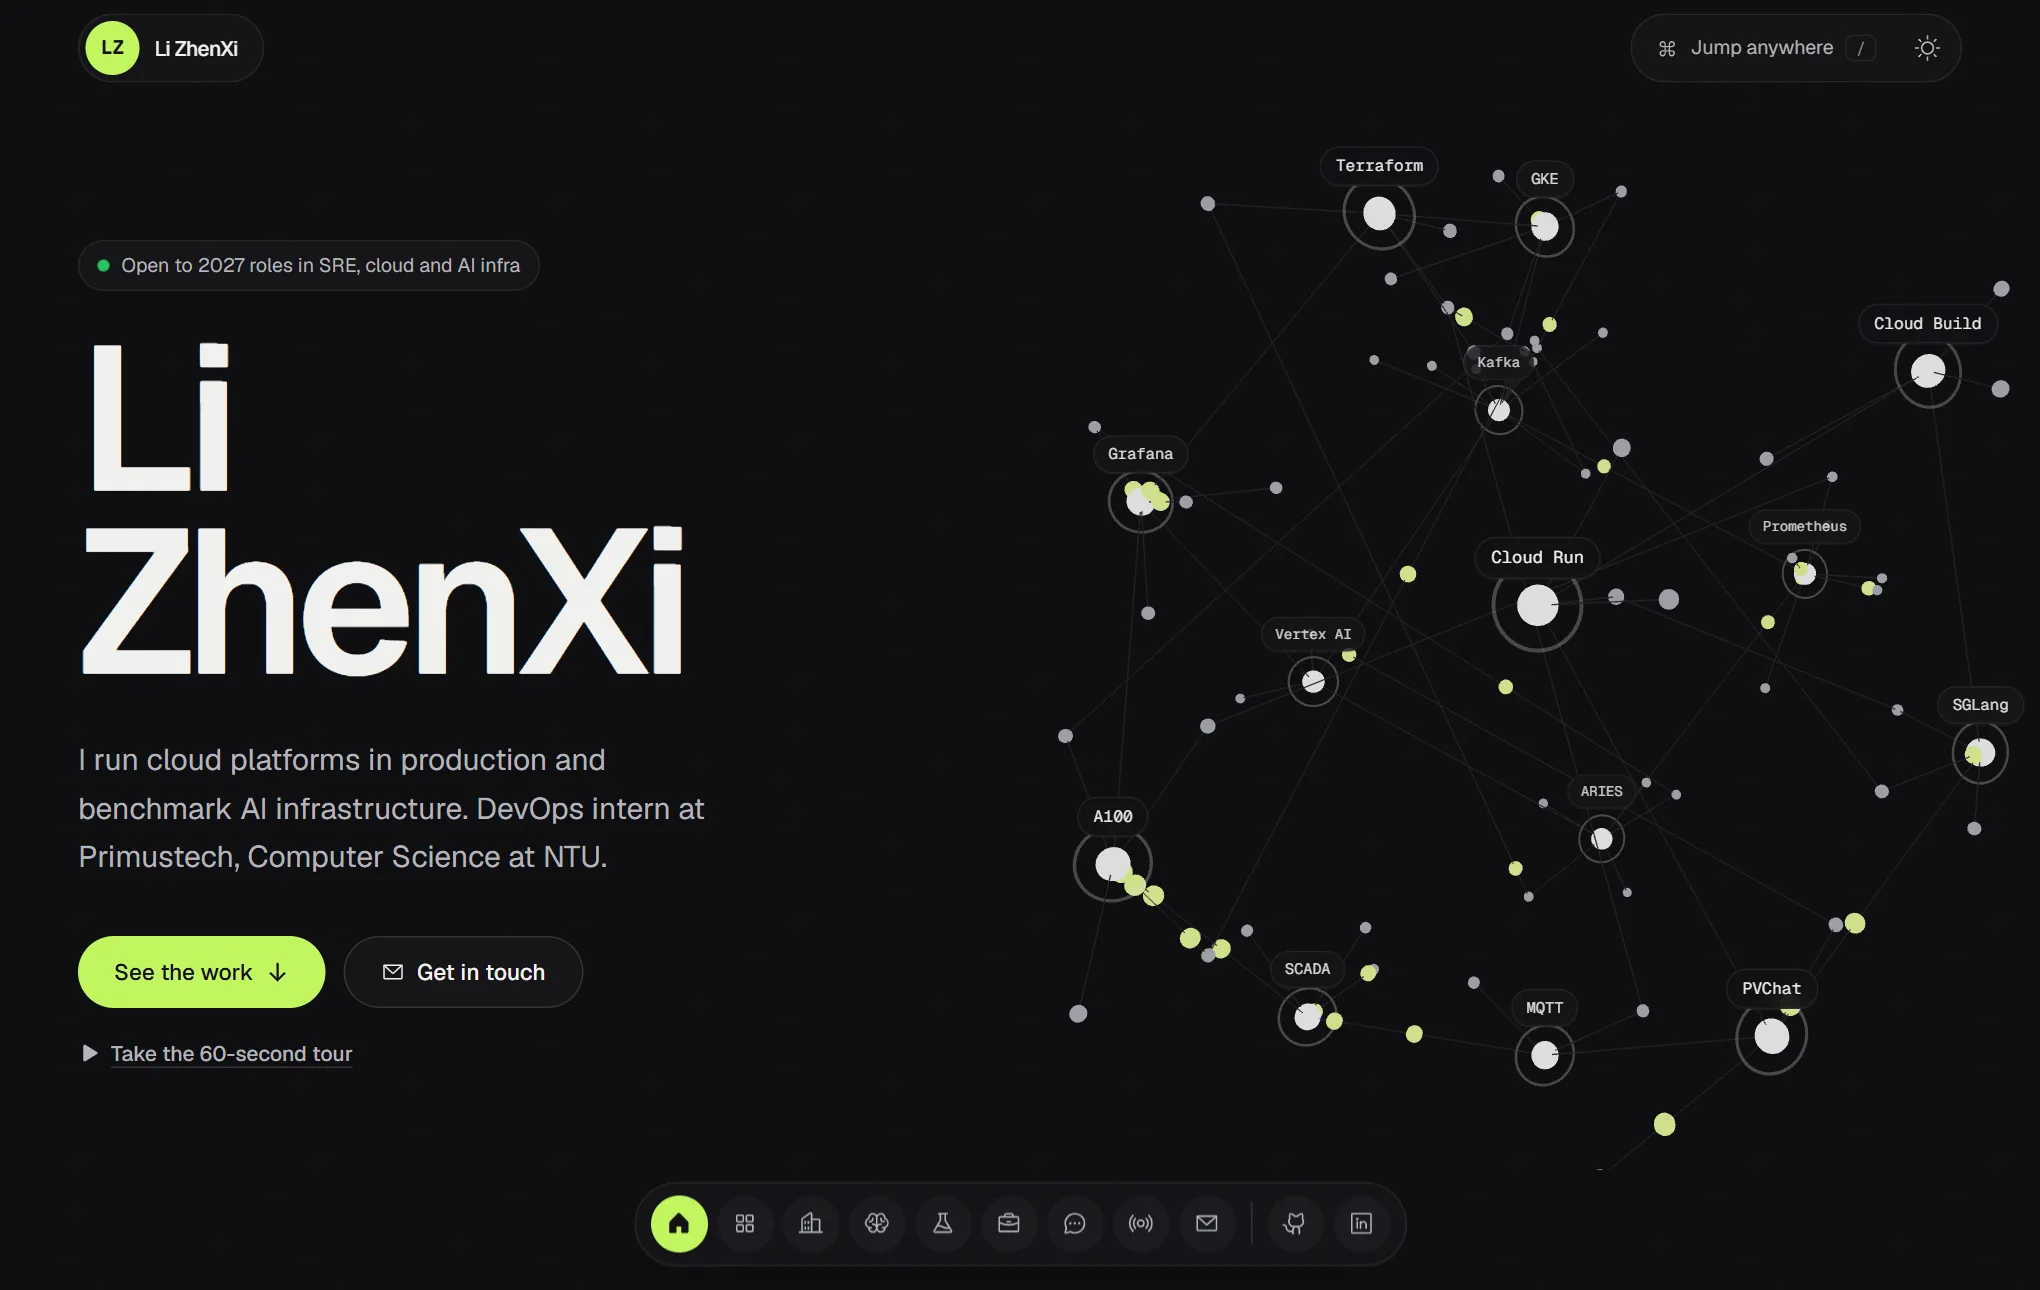
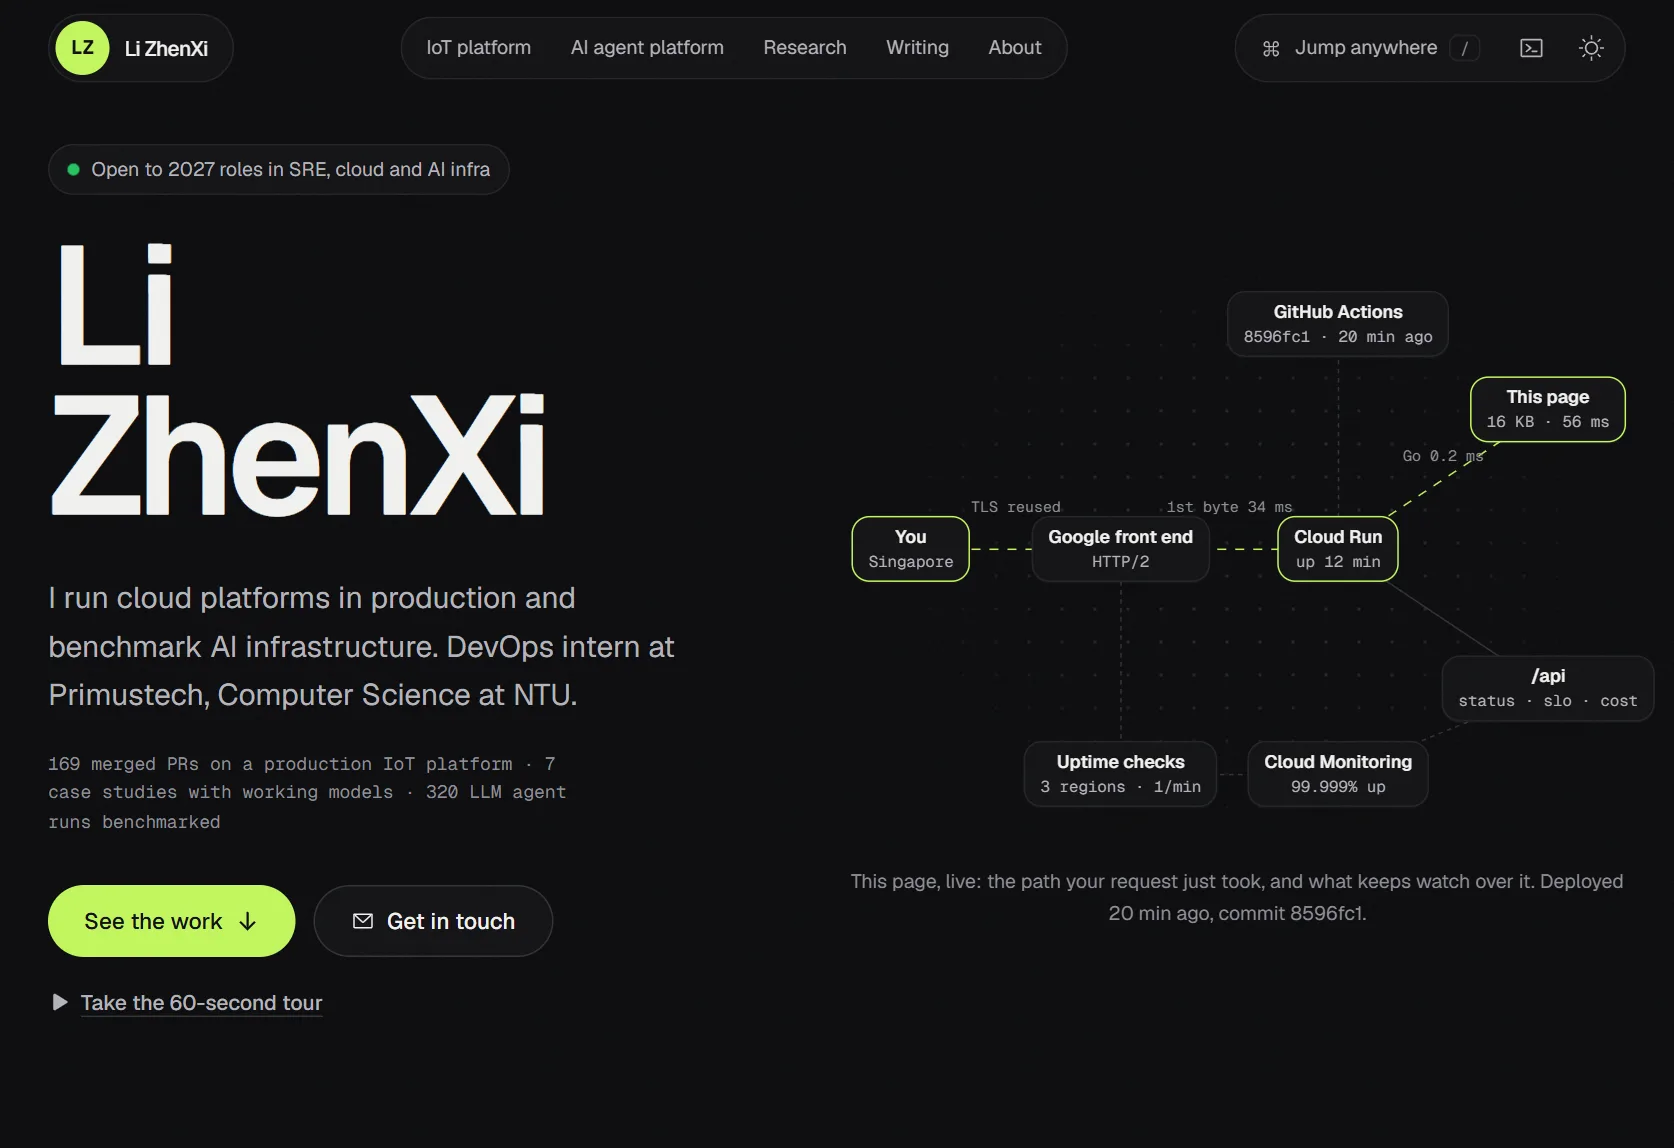
README: the live-map hero, /break, /cost, the capacity lab and the drill
- A new hero screenshot (the live map of the request that loaded the
  page) and two new gallery rows: break it yourself and what it costs.
- Three things to try against the live server, and an Open in GitHub
  Codespaces badge for the break-fix drill on the drill/01 branch.
- The architecture sketch and the back-end row list /api/cost and
  /api/lab/echo; the front-end row describes the new hero (the 3D one is
  kept on /v1), the new pages and the terminal's cost command; there are
  eleven decision records, not ten.

diff --git a/README.md b/README.md
@@ -10,7 +10,7 @@ back end, the pipeline and the monitoring are the work.
 [![Uptime from Google Cloud uptime checks](https://img.shields.io/endpoint?url=https%3A%2F%2Fportfolio-emsghin2iq-as.a.run.app%2Fapi%2Fbadge%2Fuptime)](https://portfolio-emsghin2iq-as.a.run.app/status)
 [![OpenSSF Scorecard](https://api.scorecard.dev/projects/github.com/zhenxi0901/portfolio/badge)](https://scorecard.dev/viewer/?uri=github.com/zhenxi0901/portfolio)
 
-![The hero: a 3D service mesh of the tools I work with](docs/screenshots/hero.webp)
+![The hero: a live map of the request that loaded the page, and what keeps watch over it](docs/screenshots/hero.webp)
 
 ## What you will find on it
 
@@ -20,6 +20,16 @@ benchmarks**, my final-year project at NTU (`/research`). The home page is short
 what I am doing now, a card per chapter, and the ways into the site's own operations. Writing and
 postmortems are at `/writing`, experience and the Ask console at `/about`, and the one-page version the
 site used to be is kept at `/v1` ([ADR 11](docs/adr/0011-chapters-not-one-page.md)).
+
+Three things to try against the live server: **break it yourself** (`/break`), which injects delays and 503s into your own
+requests and lets four client strategies cope with them; **what it costs** (`/cost`), this month's bill from the service's own
+meters at Google's list prices; and a **capacity lab** (`/research#capacity`) that sizes a GPU for long-running agents from my
+FYP's numbers. Or debug this server yourself:
+
+[![Open in GitHub Codespaces](https://github.com/codespaces/badge.svg)](https://codespaces.new/zhenxi0901/portfolio?ref=drill/01&quickstart=1)
+
+That opens the [break-fix drill](https://github.com/zhenxi0901/portfolio/tree/drill/01/drills/01) on the `drill/01` branch: this Go
+server with one bug planted in it, real traffic, and a check that grades the fix (`make drill`, find it, `make check`).
 
 | | |
 |---|---|
@@ -31,12 +41,14 @@ site used to be is kept at `/v1` ([ADR 11](docs/adr/0011-chapters-not-one-page.m
 | **A page per case study** (`/work/<case>`): the numbers, the same working model, the full write-up, and links into the deeper sections. | **Postmortems** (`/postmortems/<slug>`): blameless write-ups of what went wrong running this site, with times and counts from the commits, the CI history and Cloud Run's request logs. |
 | [![The on-call drill, paged and investigating](docs/screenshots/oncall-drill.webp)](https://portfolio-emsghin2iq-as.a.run.app/oncall) | [![DORA metrics for this site, from its own deploy history](docs/screenshots/delivery.webp)](https://portfolio-emsghin2iq-as.a.run.app/status) |
 | **Go on call** (`/oncall`): two simulated pages, stale telemetry on the IoT platform or slow answers on the AI agent platform. Every look and action costs minutes while the error budget burns, and you get a postmortem of your own response; the site's terminal runs them as text too (`oncall`). | **How this site ships**: DORA's four keys for this repository, computed by the pipeline from its own commits and deploy runs and baked into the image it deploys. |
+| [![Break it yourself: a retry run against 30% errors, every attempt on a timeline](docs/screenshots/break.webp)](https://portfolio-emsghin2iq-as.a.run.app/break) | [![What it costs: the month's receipt and where the money goes](docs/screenshots/cost.webp)](https://portfolio-emsghin2iq-as.a.run.app/cost) |
+| **Break it yourself** (`/break`): delays and 503s injected into your own requests on the live server, and four clients against them: give up, retry with jittered backoff, a circuit breaker, hedging. | **What it costs** (`/cost`): the month so far as a receipt, from the service's own meters at list prices, with where the money goes, a what-if for a busy day, and what caps the bill. |
 | [![A console on the site calling its own MCP server](docs/screenshots/agents.webp)](https://portfolio-emsghin2iq-as.a.run.app/agents) | [![The site's claims, sorted by how they can be checked](docs/screenshots/evidence.webp)](https://portfolio-emsghin2iq-as.a.run.app/evidence) |
 | **Ask it with your own agent** (`/agents`): the site is an MCP server. Add one URL to Claude, Cursor or any MCP client, or call the tools from the console on the page. `curl` on the home page gets a text card. | **Evidence** (`/evidence`): every headline claim, sorted by whether you can check it live, on public record, or not at all because the work is private. |
 
 ```
 Browser ──> Cloud Run: one Go binary ──> Next.js static export  (/, /_next/*, /work/*, /oncall, ...)
-                                    ├──> JSON API               (/api/status, /api/slo, /api/ask, /api/contact, /api/badge/uptime, /api/card.svg)
+                                    ├──> JSON API               (/api/status, /api/slo, /api/cost, /api/ask, /api/lab/echo, /api/contact, /api/badge/uptime, /api/card.svg)
                                     ├──> MCP server             (/mcp: five read-only tools for AI agents)
                                     ├──> plain text             (/llms.txt, /md/*.md; a text card when the home page is asked for with curl)
                                     ├──> OpenTelemetry spans    (/api/ask) ──> Cloud Trace
@@ -53,8 +65,8 @@ Terraform ──> Cloud Run, Artifact Registry, Secret Manager, uptime check, ke
 
 | Area | Highlights |
 |---|---|
-| **Front end** (`web/`) | Next.js 16, React 19, Tailwind CSS v4, Motion, three.js via react-three-fiber. An interactive 3D "service mesh" hero, loaded only on screens 768 px and wider once the browser is idle, with a static version for phones (Lighthouse on a phone profile: performance 90+, accessibility 100); seven playable case studies (pipeline gates with an approval step, a Kafka topic reaper, a ZooKeeper quorum alert, GKE pod and node autoscaling across zones, a remote-control lane with its safety guards, a cache password rolled out in two steps, an agent request's path through the AI platform); **Inside the IoT platform** (hop-by-hop traffic paths and tunnels; SLIs, SLOs and error budgets on a Grafana-style board with a replayable incident; a cause-alert playground for eight failure modes; the investigation route and runbook; a seven-move cost review); **the AI agent platform** (an animated system map with five request journeys and a "what I own" lens, the AI infrastructure stack layer by layer, a Langfuse-style request trace, what I measure on an LLM service); **research** (FYP charts, where an agent's time goes and what each MCP server costs per call, a prefix-cache explainer, the GPU-over-SSH setup, the Apptainer backend that runs the stack on a supercomputer without root); a page per case study, three postmortems from running this site and three longer write-ups (`/writing/<slug>`), each with its own generated share card, and a sitemap; an **on-call drill** (`/oncall`) that scores a simulated incident response and writes its postmortem; a 60-second guided tour (`/?tour`); the site's own SLO and DORA metrics in the status section; a **status page** (`/status`) with live state, 30-day availability, how the site is watched, the incident history and an Atom feed; a **changelog** (`/changelog`) of every release and the commits it shipped, written by the pipeline; ten **architecture decision records** (`/decisions`, also in `docs/adr`); an **evidence** page (`/evidence`) that sorts the site's claims by whether you can check them live, on public record, or not at all because the work is private; a page **for agents** (`/agents`) with a console that sends real MCP requests, `/llms.txt`, and a Markdown copy of every case study, write-up and postmortem under `/md/`; a trace of the visitor's own page load, and of each Ask answer; a **terminal** (press `` ` ``, or `/?terminal`): a shell in the page whose commands (`status`, `slo`, `deploys`, `ask`, `mcp`, `curl`, `cat work/gke.md`) all read the live API, with tab completion and history, loaded only when first opened; a ⌘K command palette that searches by topic and reaches every page; dock navigation; light and dark themes. Content renders without JavaScript; motion respects `prefers-reduced-motion`. |
-| **Back end** (`api/`) | Go 1.27, standard library `net/http`. Serves the static export with immutable caching and build-time brotli/gzip (no per-request compression CPU), plus `/api/status` (live uptime and latency percentiles), `/api/slo` (this site's own availability and error budget, read from Cloud Monitoring with the metadata server's token, standard library only), `/api/ask` (BM25 retrieval over the site's own facts, optional LLM on top, cached, rate limited, prompt-injection fenced; traced with OpenTelemetry, exported to Cloud Trace by a small REST exporter, and each answer carries its own trace), `/api/contact` (validation, honeypot, rate limit, delivery to a Discord or Slack webhook before the visitor is told it was sent), `/api/badge/uptime` (a shields.io endpoint for the uptime badge: the 30-day window, or the time since measuring began until it fills), `/api/card.svg` (the live card on my GitHub profile: commit, uptime, error budget, release policy and DORA numbers, drawn by the server itself in light and dark; `/api/card.txt` is the same card as text, and `curl` on the home page gets it instead of HTML), and `/mcp`: the site as a **Model Context Protocol server** with five read-only tools (`ask`, `search_facts`, `list_topics`, `get_status`, `get_delivery`) over the same facts and live numbers, stateless, speaking the 2026-07-28 revision and the older handshake, with no SDK and no model of its own. `Server-Timing` on every response (server time, Cloud Run revision, and process age on an instance's first visitor request, which the page uses to say "you woke this server up"). CSP and security headers, request IDs, structured logs, graceful shutdown. |
+| **Front end** (`web/`) | Next.js 16, React 19, Tailwind CSS v4, Motion, three.js via react-three-fiber. A hero that maps the visitor's own request live (TLS, first byte and time in Go from the page's own timing, the instance and commit that answered, the uptime checks and SLO watching it), as a list on phones; the 3D "service mesh" hero it replaced is kept on `/v1`; seven playable case studies (pipeline gates with an approval step, a Kafka topic reaper, a ZooKeeper quorum alert, GKE pod and node autoscaling across zones, a remote-control lane with its safety guards, a cache password rolled out in two steps, an agent request's path through the AI platform); **Inside the IoT platform** (hop-by-hop traffic paths and tunnels; SLIs, SLOs and error budgets on a Grafana-style board with a replayable incident; a cause-alert playground for eight failure modes; the investigation route and runbook; a seven-move cost review); **the AI agent platform** (an animated system map with five request journeys and a "what I own" lens, the AI infrastructure stack layer by layer, a Langfuse-style request trace, what I measure on an LLM service); **research** (FYP charts, where an agent's time goes and what each MCP server costs per call, a prefix-cache explainer, the GPU-over-SSH setup, the Apptainer backend that runs the stack on a supercomputer without root); a page per case study, three postmortems from running this site and three longer write-ups (`/writing/<slug>`), each with its own generated share card, and a sitemap; an **on-call drill** (`/oncall`) that scores a simulated incident response and writes its postmortem; **break it yourself** (`/break`), fault injection on the live server with four client strategies drawn attempt by attempt; **what it costs** (`/cost`), a receipt from the service's own meters with a what-if for traffic spikes; a **capacity lab** in the research chapter for serving agents on one GPU; a 60-second guided tour (`/?tour`); the site's own SLO and DORA metrics in the status section; a **status page** (`/status`) with live state, 30-day availability, how the site is watched, the incident history and an Atom feed; a **changelog** (`/changelog`) of every release and the commits it shipped, written by the pipeline; eleven **architecture decision records** (`/decisions`, also in `docs/adr`); an **evidence** page (`/evidence`) that sorts the site's claims by whether you can check them live, on public record, or not at all because the work is private; a page **for agents** (`/agents`) with a console that sends real MCP requests, `/llms.txt`, and a Markdown copy of every case study, write-up and postmortem under `/md/`; a trace of the visitor's own page load, and of each Ask answer; a **terminal** (press `` ` ``, or `/?terminal`): a shell in the page whose commands (`status`, `slo`, `cost`, `deploys`, `ask`, `mcp`, `curl`, `cat work/gke.md`) all read the live API, with tab completion and history, loaded only when first opened; a ⌘K command palette that searches by topic and reaches every page; dock navigation; light and dark themes. Content renders without JavaScript; motion respects `prefers-reduced-motion`. |
+| **Back end** (`api/`) | Go 1.27, standard library `net/http`. Serves the static export with immutable caching and build-time brotli/gzip (no per-request compression CPU), plus `/api/status` (live uptime and latency percentiles), `/api/slo` (this site's own availability and error budget, read from Cloud Monitoring with the metadata server's token, standard library only), `/api/cost` (this month's usage from Cloud Monitoring, priced at list prices, read at most hourly), `/api/lab/echo` (the delays and 503s a visitor asks for, on their own requests only, capped and rate limited, kept out of the SLO and the live latency), `/api/ask` (BM25 retrieval over the site's own facts, optional LLM on top, cached, rate limited, prompt-injection fenced; traced with OpenTelemetry, exported to Cloud Trace by a small REST exporter, and each answer carries its own trace), `/api/contact` (validation, honeypot, rate limit, delivery to a Discord or Slack webhook before the visitor is told it was sent), `/api/badge/uptime` (a shields.io endpoint for the uptime badge: the 30-day window, or the time since measuring began until it fills), `/api/card.svg` (the live card on my GitHub profile: commit, uptime, error budget, release policy and DORA numbers, drawn by the server itself in light and dark; `/api/card.txt` is the same card as text, and `curl` on the home page gets it instead of HTML), and `/mcp`: the site as a **Model Context Protocol server** with five read-only tools (`ask`, `search_facts`, `list_topics`, `get_status`, `get_delivery`) over the same facts and live numbers, stateless, speaking the 2026-07-28 revision and the older handshake, with no SDK and no model of its own. `Server-Timing` on every response (server time, Cloud Run revision, and process age on an instance's first visitor request, which the page uses to say "you woke this server up"). CSP and security headers, request IDs, structured logs, graceful shutdown. |
 | **Reliability** | A real SLO for the site itself: 99.9% over 30 days, measured by Google Cloud uptime checks every minute from three continents and shown on the page with the error budget left. For the local stack: Prometheus metrics with bounded route labels, recording rules for a 99.5% request SLO, a fast-burn alert that needs both the last hour and the last 5 minutes above 14.4x, latency and abuse alerts (`deploy/prometheus/rules.yml`), and a provisioned Grafana dashboard (`deploy/grafana`). |
 | **Delivery** | Multi-stage Dockerfile to a 30 MB distroless, non-root image. GitHub Actions: lint, typecheck, build, `go vet`, race-detector tests, a TypeScript/Go parity check, container smoke test, Lighthouse budgets and a CRITICAL-CVE gate, with every action pinned to a commit SHA. The image is built once: CI pushes it only after every check passes and attests its SBOM and build provenance. The deploy refuses an image whose attestations don't verify, holds the release if the site's own error budget is spent (unless the commit is marked `Reliability-fix:`), starts the new revision with no traffic and smoke-tests it at its own URL, then moves traffic and checks again, rolling back to the previous revision on its own if that fails; a manual **rollback drill** rehearses exactly that in production. Every release becomes a GitHub release with its SBOM and provenance attached. Keyless via Workload Identity Federation; only pushes to `main` in this repository deploy, never a fork's pull request. The production image's base images pinned by digest, Dependabot for updates, CodeQL and OpenSSF Scorecard on every push to `main`, Go fuzz tests for the inputs visitors control. |
 | **Infrastructure** (`infra/`) | Terraform for Cloud Run (scale to zero, probes, least-privilege runtime identity), Artifact Registry with cleanup policies, Secret Manager for the contact webhook and the optional LLM key, the uptime check behind the SLO (`infra/slo.tf`), Cloud Trace write access for the runtime identity (`infra/tracing.tf`), a read-only identity for the scheduled contact checks (`infra/watch.tf`), and a GitHub OIDC pool limited to this repository's `main` branch. |
